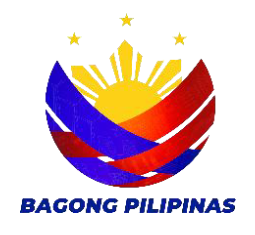
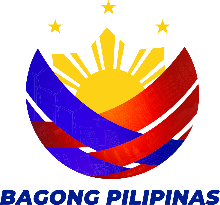
Print the analytics report on the SDS letterhead
Use the Office of the Student Development Services header, the updated
seal, Bagong Pilipinas logo and footer band, and long bond paper
(8.5 x 13 in) to match the office's template.

diff --git a/resources/views/admin/analytics/report.blade.php b/resources/views/admin/analytics/report.blade.php
@@ -45,23 +45,24 @@
     <title>SorSUpport Analytics Report</title>
     <style>
         /* The margins leave room for the letterhead and the footer band on every page. */
-        @page { size: letter; margin: 112pt 40pt 92pt 40pt; }
+        /* The SDS letterhead is on long bond paper (8.5 x 13 in) with 0.75 in side margins. */
+        @page { size: 8.5in 13in; margin: 150pt 54pt 92pt 54pt; }
         body { font-family: Arial, Helvetica, sans-serif; font-size: 11px; color: #1f2937; }
 
-        .letterhead { position: fixed; top: -96pt; left: 0; right: 0; height: 84pt; }
+        .letterhead { position: fixed; top: -102pt; left: 0; right: 0; height: 90pt; }
         .letterhead table { width: 100%; border-collapse: collapse; }
         .letterhead td { vertical-align: middle; text-align: center; padding: 0; }
-        .letterhead .logo { width: 86px; }
-        .letterhead .logo img { height: 78px; }
-        .letterhead p { margin: 0; font-size: 10.5px; line-height: 1.25; color: #000; }
+        .letterhead .logo { width: 72pt; }
+        .letterhead .logo img { width: 72pt; }
+        .letterhead p { margin: 0; font-size: 10pt; line-height: 1.15; color: #000; }
         .letterhead .strong { font-weight: bold; }
-        .letterhead .unit { font-weight: bold; font-size: 12px; }
+        .letterhead .small { font-size: 9pt; }
         .letterhead .place { font-style: italic; }
-        .letterhead .rule { border-top: 2px solid #000; margin: 6px 40px 0 40px; }
+        .letterhead .rule { border-top: 1.5pt solid #000; width: 360pt; margin: 4pt auto 0 auto; }
 
-        /* The band runs edge to edge: 612pt wide, about 80pt tall. */
-        .footer { position: fixed; bottom: -92pt; left: -40pt; width: 612pt; height: 81pt; }
-        .footer img { width: 612pt; height: 80.3pt; }
+        /* The band runs edge to edge: 612pt wide, about 79pt tall. */
+        .footer { position: fixed; bottom: -92pt; left: -54pt; width: 612pt; height: 80pt; }
+        .footer img { width: 612pt; height: 79.2pt; }
 
         h1 { margin: 0; text-align: center; font-size: 15px; color: #7a1d2a; letter-spacing: 0.3px; }
         .subtitle { margin: 3px 0 0 0; text-align: center; font-size: 10px; color: #4b5563; }
@@ -89,11 +90,10 @@
                 <td>
                     <p>Republic of the Philippines</p>
                     <p class="strong">Sorsogon State University</p>
-                    <p class="strong">College of Information and Communications Technology</p>
-                    <p class="unit">INFORMATION TECHNOLOGY</p>
+                    <p class="strong">OFFICE OF THE STUDENT DEVELOPMENT SERVICES</p>
                     <p class="strong">Bulan Campus</p>
-                    <p class="place">Zone 8, Bulan, Sorsogon</p>
-                    <p>Tel. No.; 056 311-0103; Email Address: cict@sorsu.edu.ph</p>
+                    <p class="small place">Zone 8, Bulan, Sorsogon</p>
+                    <p class="small">Tel. No.; 056 311-0103; Email Address: sas_bc@sorsu.edu.ph</p>
                 </td>
                 <td class="logo"><img src="{{ $image('bagong-pilipinas') }}" alt=""></td>
             </tr>

diff --git a/tests/Feature/VisibilityAndFeedbackTest.php b/tests/Feature/VisibilityAndFeedbackTest.php
@@ -396,6 +396,7 @@ class VisibilityAndFeedbackTest extends TestCase
         // Only the chosen parts are printed, on the university letterhead.
         $report = view('admin.analytics.report', ['reportData' => $reportData, 'filters' => [], 'sections' => ['summary', 'colleges'], 'preparedBy' => 'Abbie Goyal'])->render();
         $this->assertStringContainsString('Sorsogon State University', $report);
+        $this->assertStringContainsString('OFFICE OF THE STUDENT DEVELOPMENT SERVICES', $report);
         $this->assertStringContainsString('Tickets by College', $report);
         $this->assertStringContainsString('Prepared by:', $report);
         $this->assertStringNotContainsString('Tickets by Program', $report);

diff --git a/app/Http/Controllers/Admin/AnalyticsController.php b/app/Http/Controllers/Admin/AnalyticsController.php
@@ -168,7 +168,7 @@ class AnalyticsController extends Controller
             'filters' => $filters,
             'sections' => $sections,
             'preparedBy' => $request->user()?->table_name,
-        ])->setPaper('letter');
+        ])->setPaper([0, 0, 612, 936]);
 
         return $pdf->download($fileName);
     }
